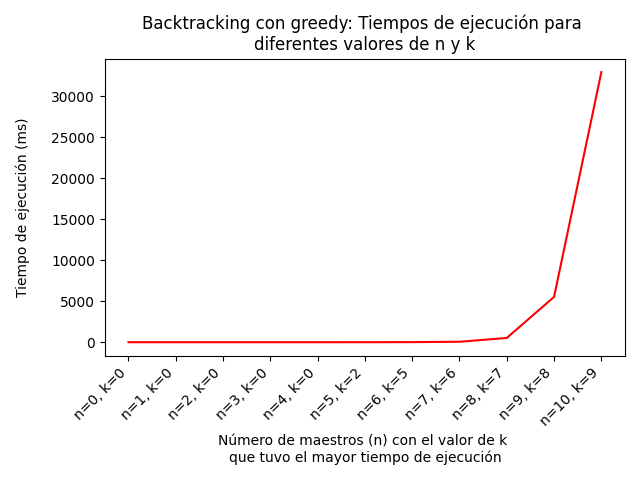
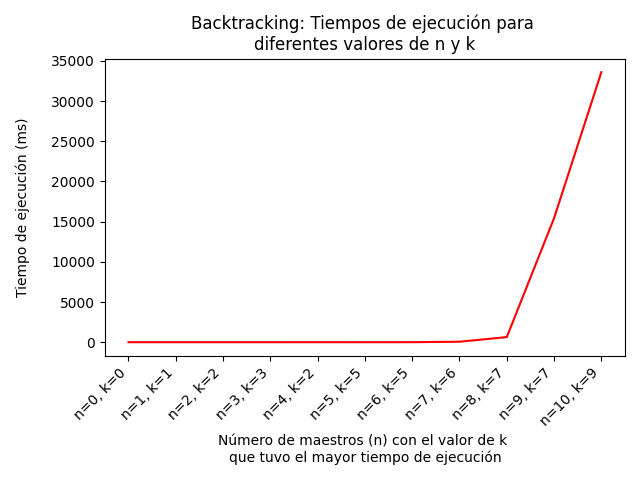
Actualizo gráficos

diff --git a/codigo/grafico_complejidad.py b/codigo/grafico_complejidad.py
@@ -95,8 +95,8 @@ def escribir_test(carpeta, nombre_archivo, k, maestros, coeficiente, grupos, tie
             f.write(f'Tiempo de ejecucion: {tiempo_ejecucion} ms\n')
         f.write(f"Coeficiente: {coeficiente}\n\n")
         
-def correr_tests_mediciones(tests, cantidad, titulo, nombre_imagen):  
-    resultados, _ = generarResultados(tests, problema_tribu_del_agua_pl, cantidad, False) 
+def correr_tests_mediciones(tests, cantidad, titulo, nombre_imagen, algoritmo):  
+    resultados, _ = generarResultados(tests, algoritmo, cantidad, False) 
     tiempos, cantidad_maestros, valores_k = Resultado.tiempos_de_ejecucion_y_valores_k_n(resultados)
     peor_tiempo = None
     ultima_cantidad = 1
@@ -122,4 +122,6 @@ def correr_tests_mediciones(tests, cantidad, titulo, nombre_imagen):
     graficar(titulo, nombre_imagen, tiempos_filtrados, cantidad_filtrada, k_filtrado)
                
 #generar_tests_y_graficar("Backtracking", problema_tribu_del_agua_bt, , "graficoBacktracking")
-correr_tests_mediciones("ejemplos_mediciones",None,"Programación lineal", "graficoProgramacionLineal")
+#correr_tests_mediciones("ejemplos_mediciones",None,"Programación lineal", "graficoProgramacionLineal2", problema_tribu_del_agua_pl)
+#correr_tests_mediciones("ejemplos_mediciones",45,"Programación lineal", "graficoProgramacionLinealSin10", problema_tribu_del_agua_pl)
+correr_tests_mediciones("ejemplos_mediciones",None,"Backtracking", "graficoBTGreedt", problema_tribu_del_agua_bt_greedy)
